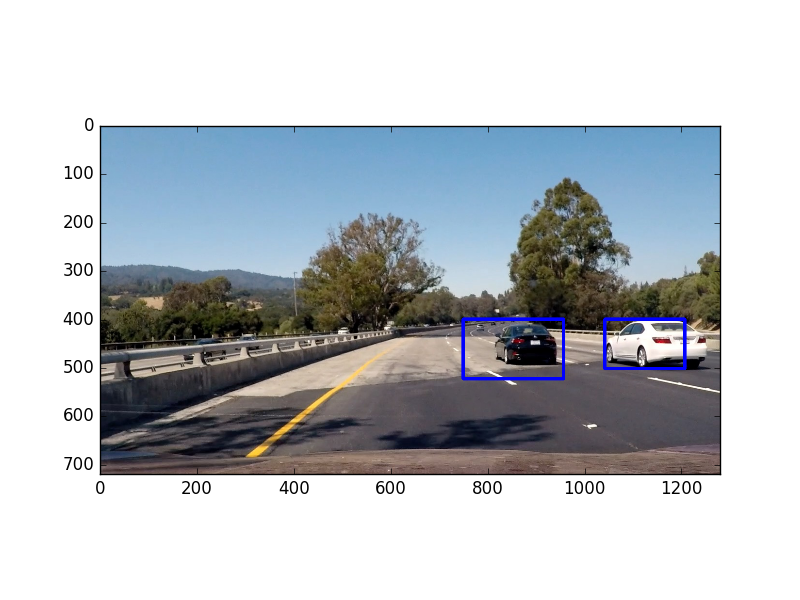
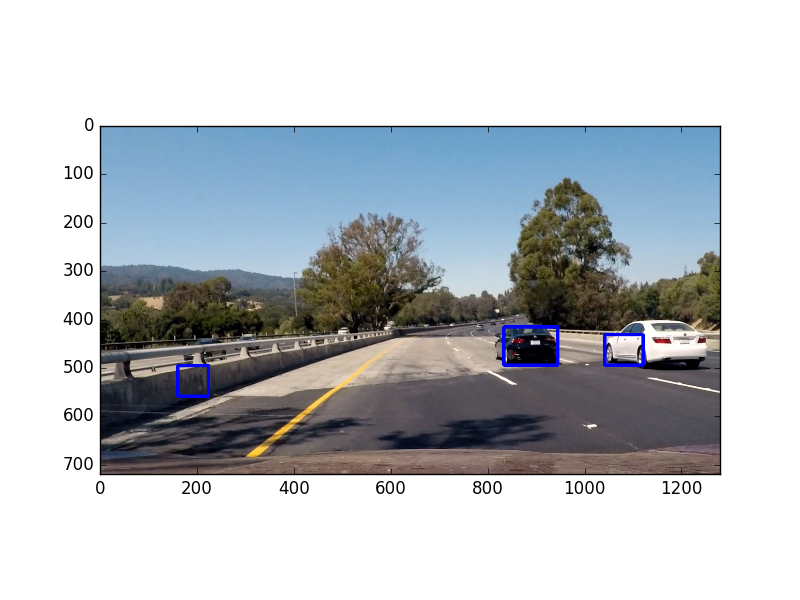
Made new solution vid with 7 threshold.

Changed region(s): [[0.5625, 0.51, 0.7188, 0.66], [0.75, 0.51, 0.875, 0.63], [0.2188, 0.6, 0.2812, 0.69]]

diff --git a/Projects/Vehicle Detection/detect_vehicles.py b/Projects/Vehicle Detection/detect_vehicles.py
@@ -445,12 +445,12 @@ X_scaler = dict["scaler"]
 img_width = 1280
 img_height = 720
 
-TEST_PIPELINE = True
+TEST_PIPELINE = False
 
 if TEST_PIPELINE:
     heat_threshold = 0
 else:
-    heat_threshold = 7
+    heat_threshold = 5
 heat_age = 10 # duration (in frames) of heat to consider
 heat = np.zeros((heat_age,img_height,img_width)).astype(np.float)
 current_heat = 0
@@ -460,7 +460,7 @@ def pipeline(img):
     global svc, X_scaler, color_space, orient, pix_per_cell, cell_per_block, spatial_size, hist_bins
     # Find cars in image.
     bbox_list = []
-    for scale, ystart, ystop, xstart, xstop in [[0.8, 400, 445, 430, 930], [1.3, 400, 656, 0, img_width]]:
+    for scale, ystart, ystop, xstart, xstop in [[0.8, 400, 445, 430, 930], [1.0, 400, 656, 0, img_width]]:
         bbox_list.extend(find_cars(img, ystart, ystop, xstart, xstop, scale, svc, 
             X_scaler, color_space, orient, pix_per_cell, cell_per_block, spatial_size, hist_bins))
     # Add heat to heatmap.
